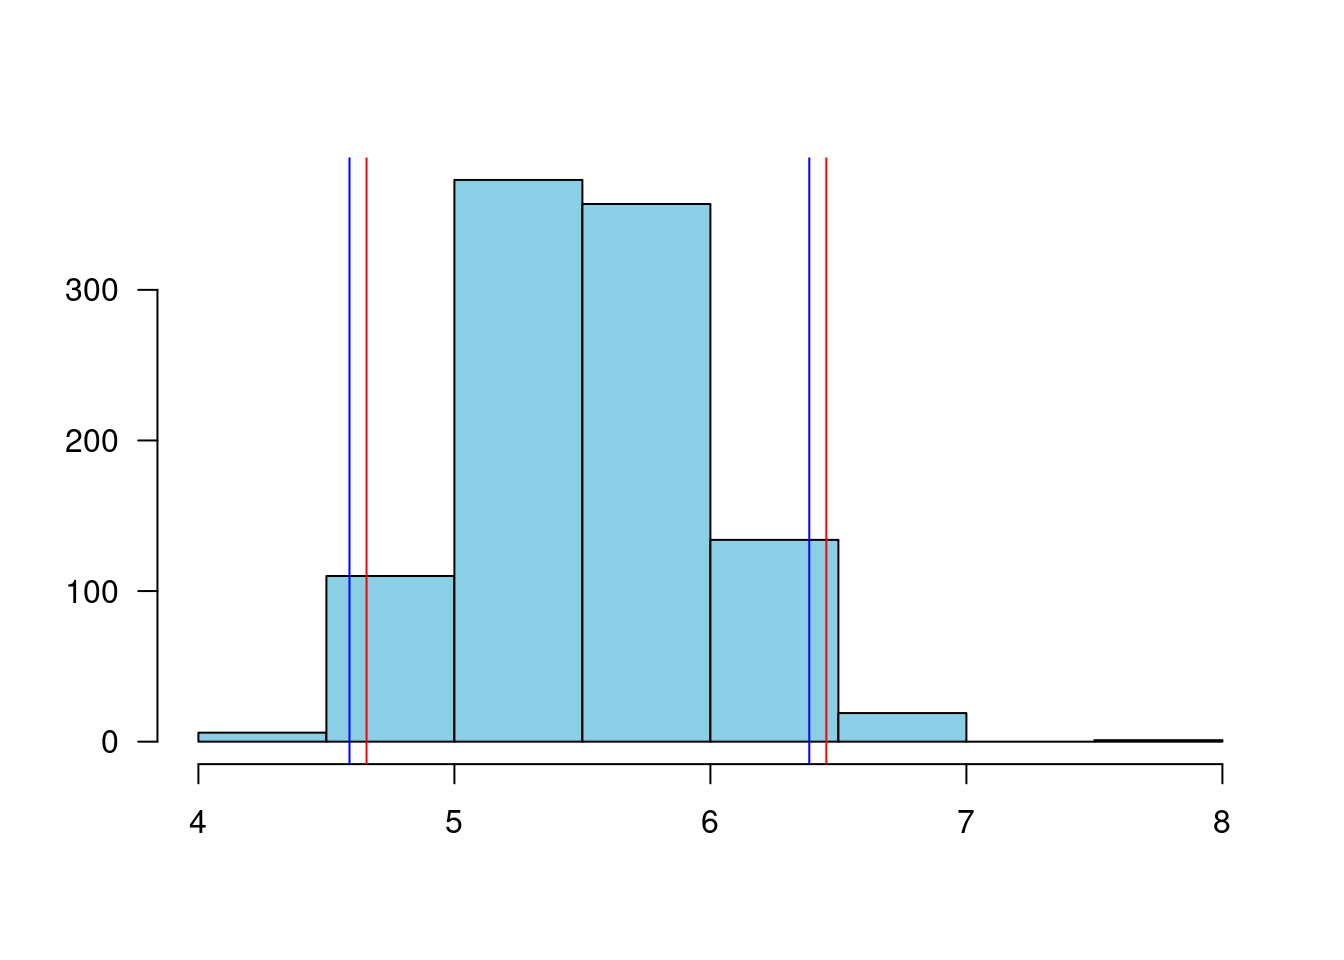
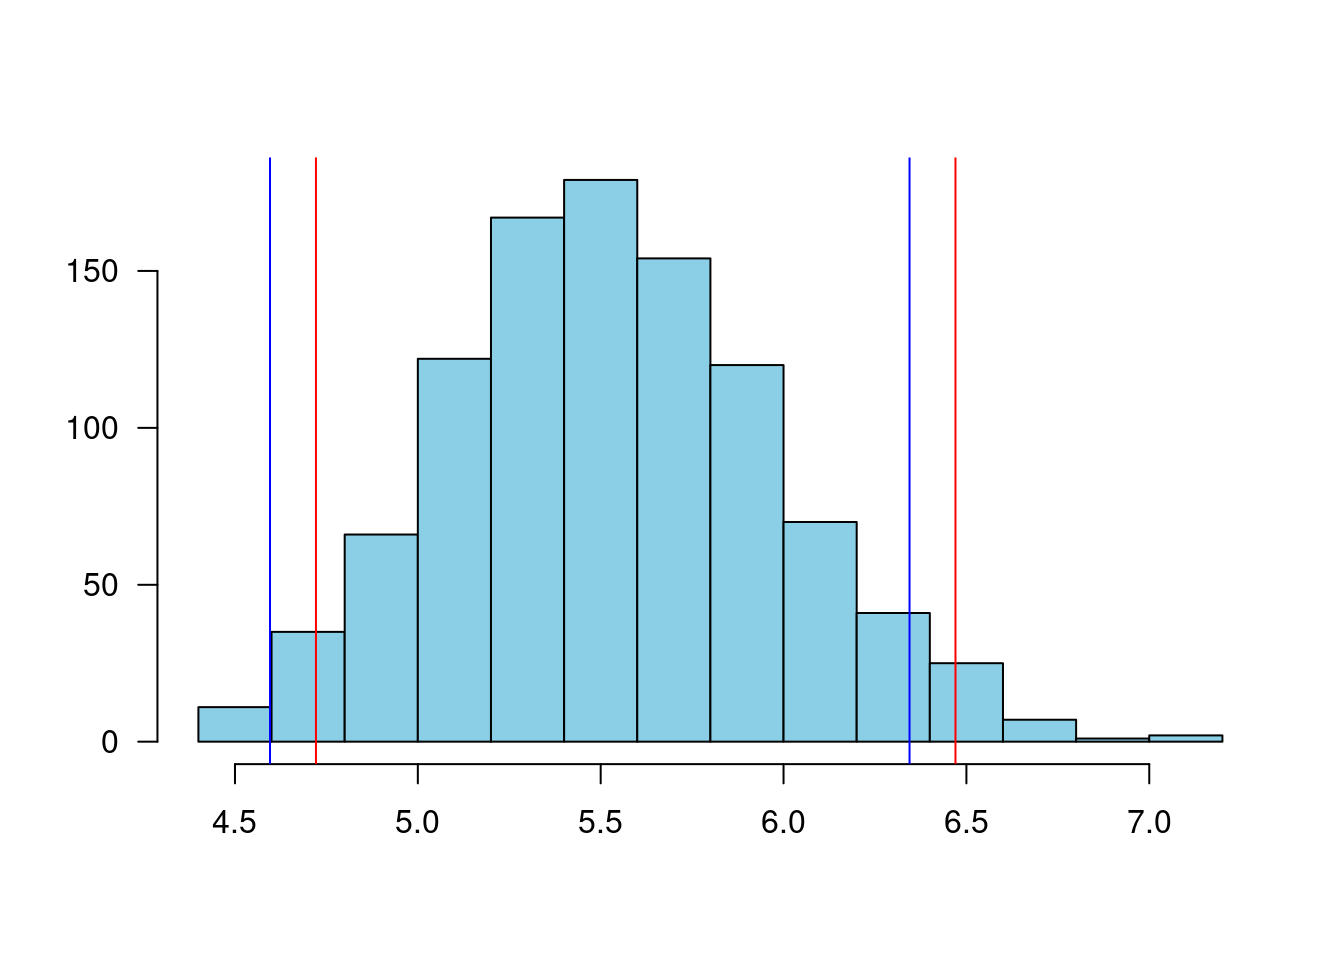
ajustes pdf solucion taller

diff --git a/docs/recurso402.html b/docs/recurso402.html
@@ -1503,12 +1503,12 @@ mx=apply(b,1,mean)                 # se calculan m medias por fila</code></pre>
 <pre class="r"><code>ic1=quantile(mx, probs=c(0.025, 0.975)) # se calcula IC método 1
 ic1</code></pre>
 <pre><code>    2.5%    97.5% 
-4.656857 6.452893 </code></pre>
+4.721429 6.470143 </code></pre>
 <p><br/><br/></p>
 <pre class="r"><code>ic2=c(2*mean(mx)-ic1[2], 2*mean(mx)-ic1[1]) # se calcula IC método 2
 ic2</code></pre>
 <pre><code>   97.5%     2.5% 
-4.590219 6.386254 </code></pre>
+4.595789 6.344503 </code></pre>
 <p><br/><br/></p>
 <pre class="r"><code>hist(mx, las=1, main=&quot; &quot;, ylab = &quot; &quot;, xlab = &quot; &quot;, col=c3)
 abline(v=ic1, col=&quot;red&quot;)
